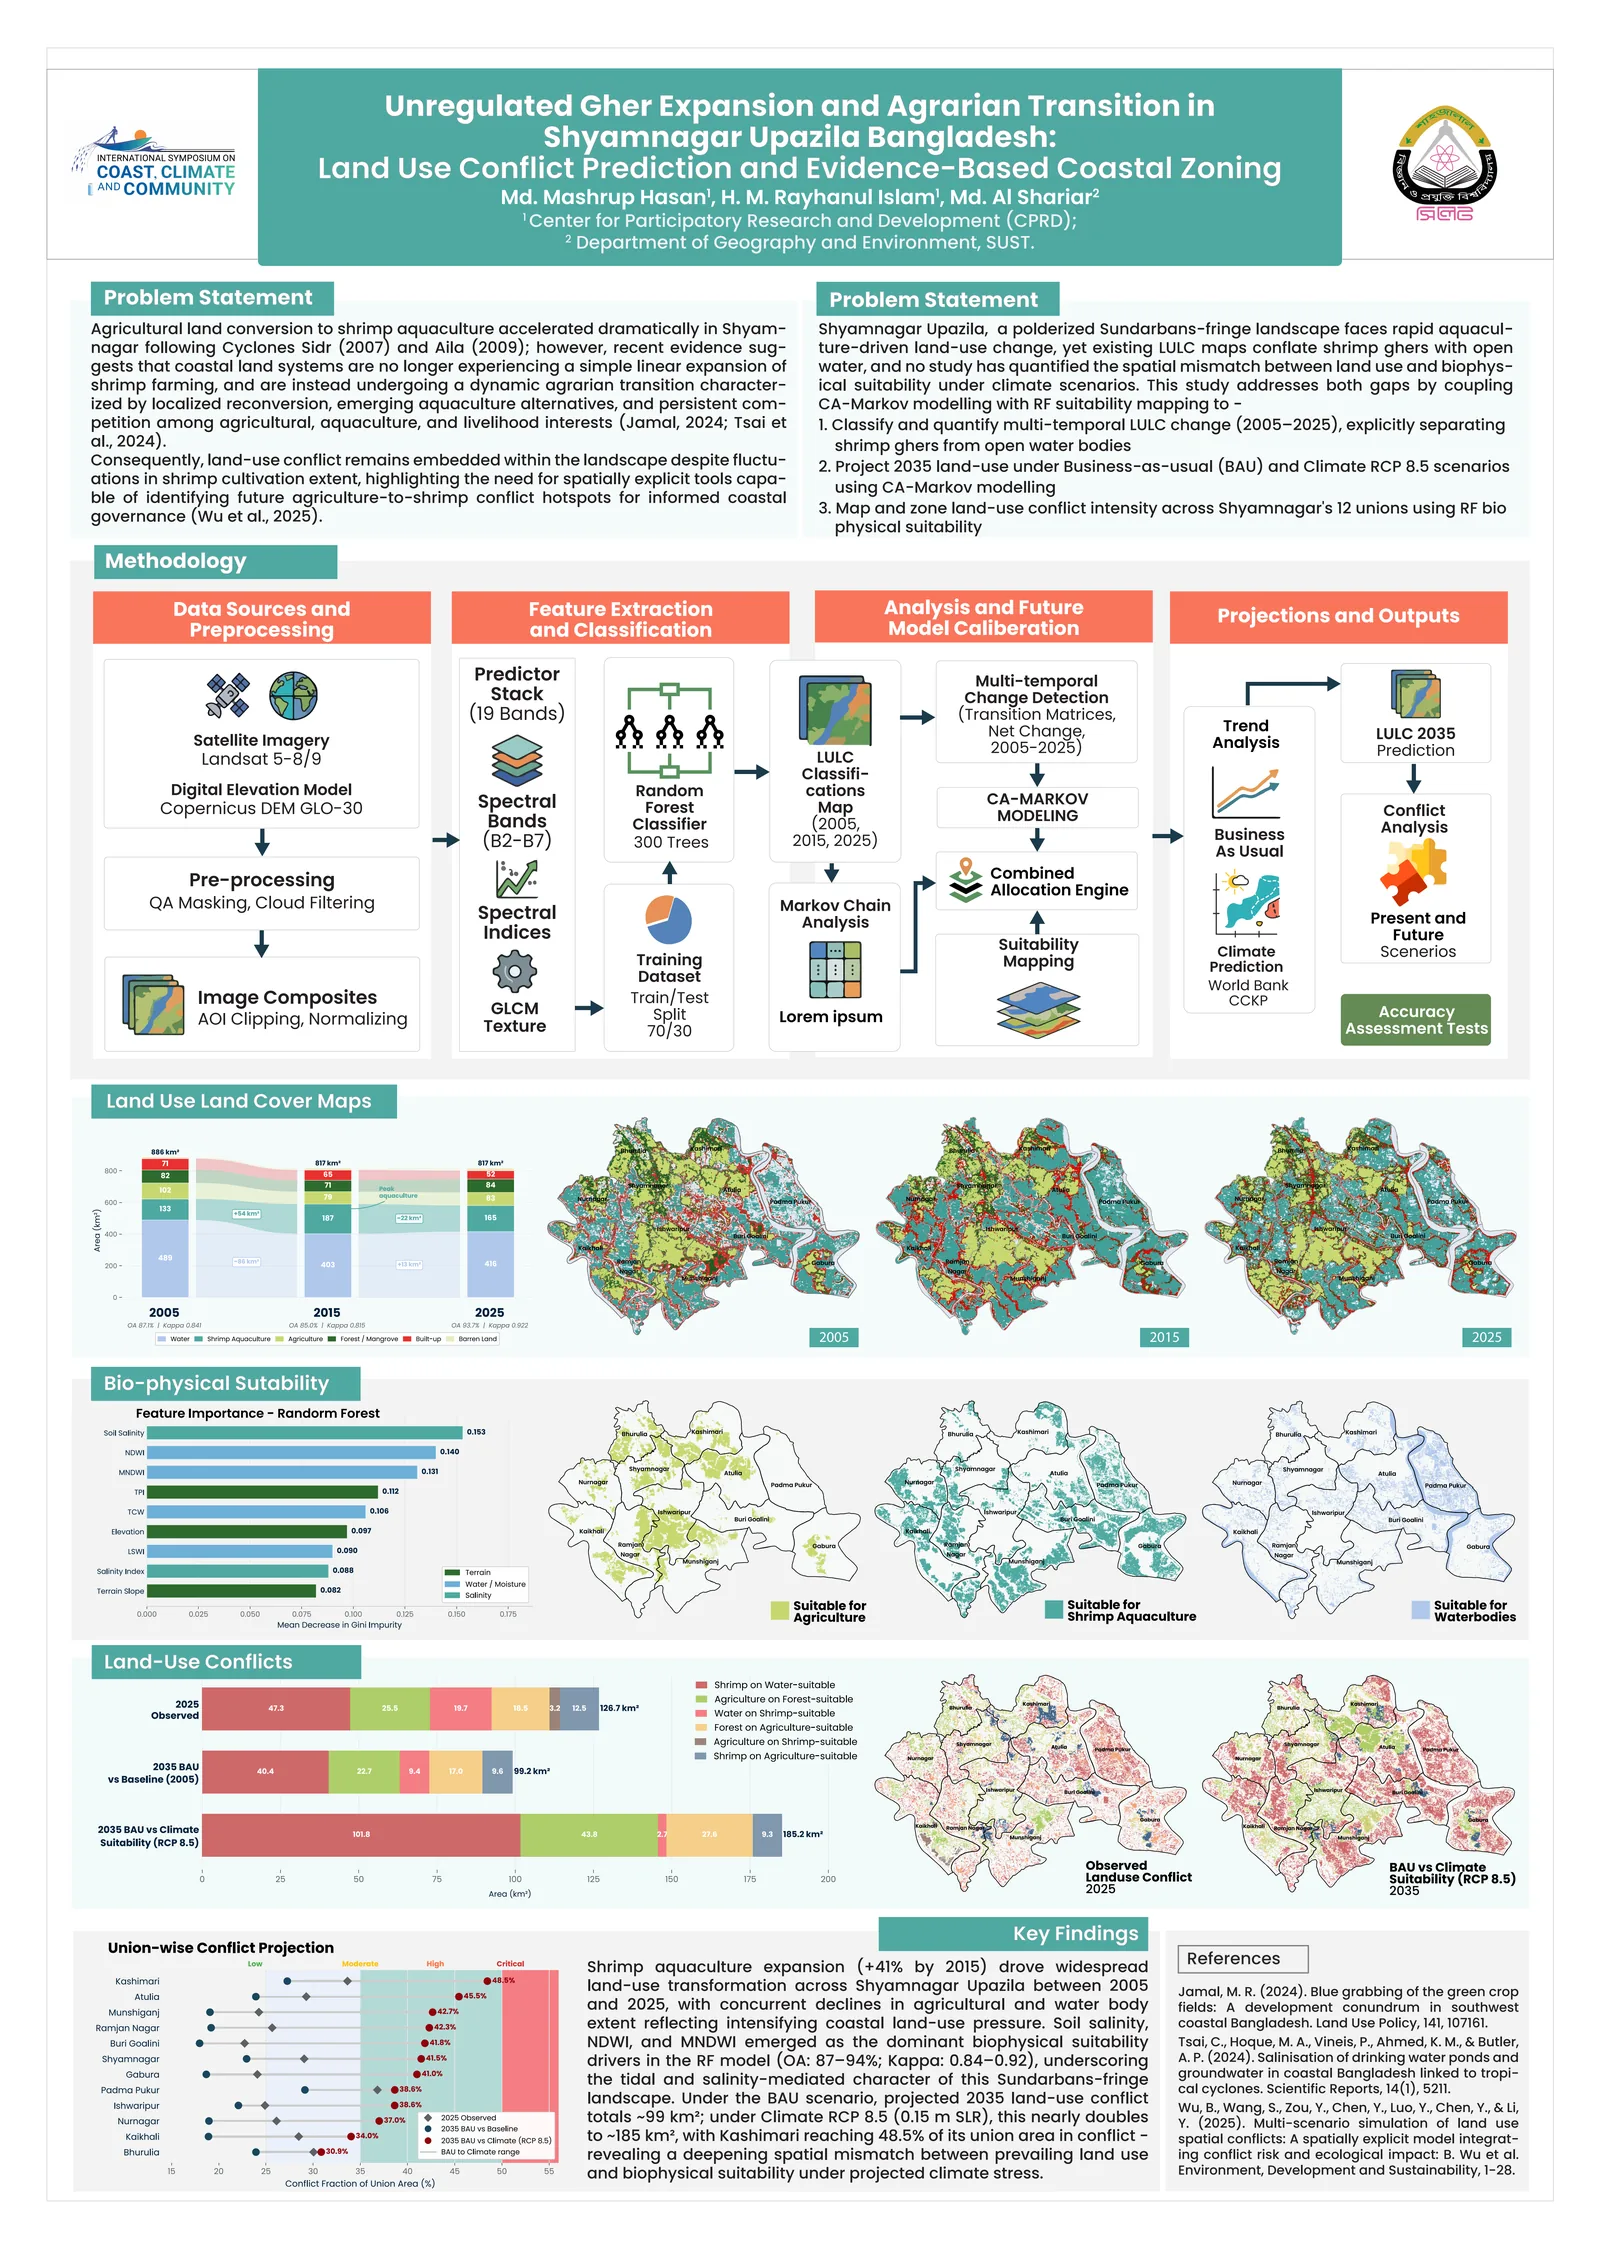
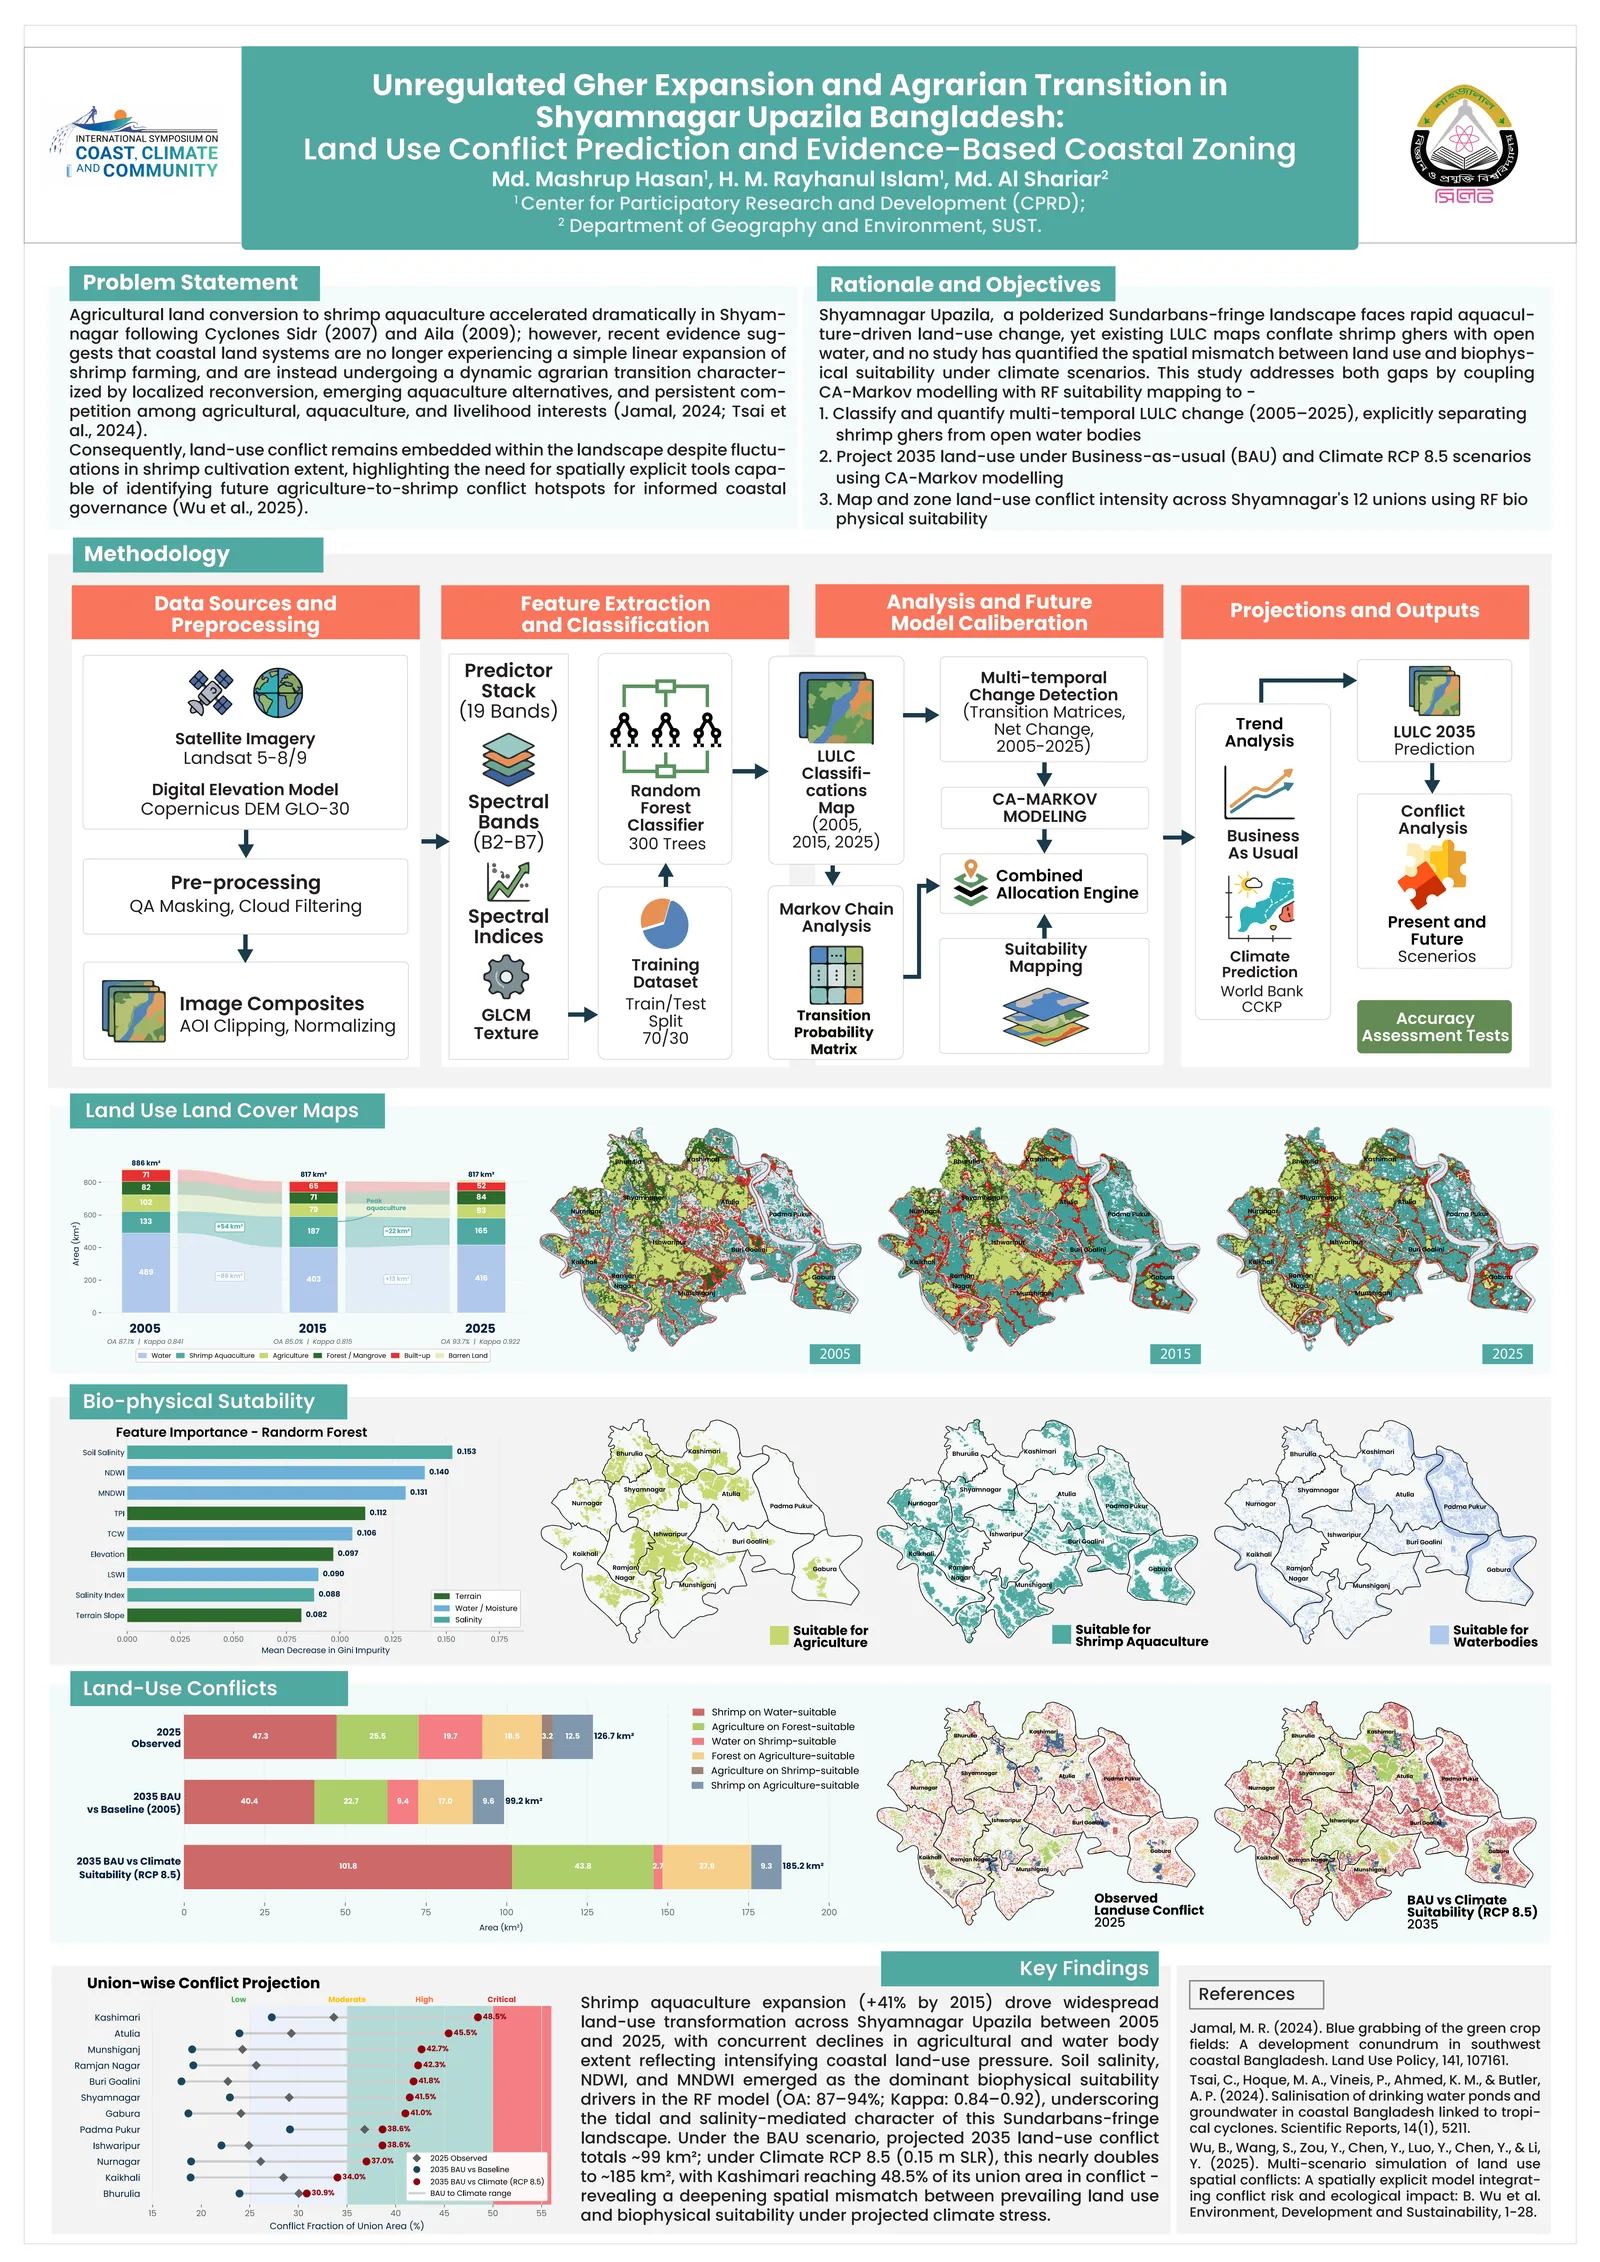
Update the ISCCC poster to the latest final version
Re-renders and re-crops the poster from the newer PDF (Rationale &
Objectives box replaces the duplicated Problem Statement header, and
the Methodology panel's placeholder "Lorem ipsum" node is now the real
Transition Probability Matrix step), and recalibrates the section
hotspot boundaries and aspect ratios to match the revised layout.

Changed region(s): [[0.0312, 0.4059, 0.9688, 0.9991], [0.0312, 0.0, 0.9688, 0.4683], [0.25, 0.6869, 0.3125, 0.7181]]

diff --git a/index.html b/index.html
@@ -842,13 +842,13 @@
     <div class="poster-stage">
       <div class="poster-overview" id="posterOverview">
         <img src="assets/research/ocg-symposium-poster.webp" alt="Full OCG Symposium poster: Unregulated Gher Expansion and Agrarian Transition in Shyamnagar Upazila">
-        <button class="poster-seg" data-seg="header" style="top:0%;height:12.2%"><span>Title &amp; Authors</span></button>
-        <button class="poster-seg" data-seg="problem" style="top:12.2%;height:12.11%"><span>Problem Statement &amp; Objectives</span></button>
-        <button class="poster-seg" data-seg="methodology" style="top:24.31%;height:24.07%"><span>Methodology</span></button>
-        <button class="poster-seg" data-seg="lulc" style="top:48.38%;height:12.59%"><span>Land Use / Land Cover Maps</span></button>
-        <button class="poster-seg" data-seg="biophysical" style="top:60.97%;height:12.41%"><span>Bio-physical Suitability</span></button>
-        <button class="poster-seg" data-seg="conflicts" style="top:73.38%;height:11.95%"><span>Land-Use Conflicts</span></button>
-        <button class="poster-seg" data-seg="findings" style="top:85.33%;height:14.67%"><span>Key Findings &amp; References</span></button>
+        <button class="poster-seg" data-seg="header" style="top:0%;height:11.76%"><span>Title &amp; Authors</span></button>
+        <button class="poster-seg" data-seg="problem" style="top:11.76%;height:12.01%"><span>Problem Statement &amp; Objectives</span></button>
+        <button class="poster-seg" data-seg="methodology" style="top:23.77%;height:24.58%"><span>Methodology</span></button>
+        <button class="poster-seg" data-seg="lulc" style="top:48.35%;height:12.86%"><span>Land Use / Land Cover Maps</span></button>
+        <button class="poster-seg" data-seg="biophysical" style="top:61.21%;height:12.67%"><span>Bio-physical Suitability</span></button>
+        <button class="poster-seg" data-seg="conflicts" style="top:73.88%;height:12.17%"><span>Land-Use Conflicts</span></button>
+        <button class="poster-seg" data-seg="findings" style="top:86.05%;height:13.95%"><span>Key Findings &amp; References</span></button>
       </div>
       <div class="poster-zoom" id="posterZoom" hidden>
         <button class="poster-back" data-poster-back>&larr; All Sections</button>
@@ -1077,13 +1077,13 @@
   const modal=document.getElementById('posterModal');
   if(!modal) return;
   const SEGMENTS=[
-    {key:'header',label:'Title & Authors',src:'assets/research/poster-seg-header.webp',ratio:0.1708},
-    {key:'problem',label:'Problem Statement & Objectives',src:'assets/research/poster-seg-problem.webp',ratio:0.1698},
-    {key:'methodology',label:'Methodology',src:'assets/research/poster-seg-methodology.webp',ratio:0.3373},
-    {key:'lulc',label:'Land Use / Land Cover Maps',src:'assets/research/poster-seg-lulc.webp',ratio:0.1765},
-    {key:'biophysical',label:'Bio-physical Suitability',src:'assets/research/poster-seg-biophysical.webp',ratio:0.1741},
-    {key:'conflicts',label:'Land-Use Conflicts',src:'assets/research/poster-seg-conflicts.webp',ratio:0.1673},
-    {key:'findings',label:'Key Findings & References',src:'assets/research/poster-seg-findings.webp',ratio:0.2058}
+    {key:'header',label:'Title & Authors',src:'assets/research/poster-seg-header.webp',ratio:0.1661},
+    {key:'problem',label:'Problem Statement & Objectives',src:'assets/research/poster-seg-problem.webp',ratio:0.1699},
+    {key:'methodology',label:'Methodology',src:'assets/research/poster-seg-methodology.webp',ratio:0.3475},
+    {key:'lulc',label:'Land Use / Land Cover Maps',src:'assets/research/poster-seg-lulc.webp',ratio:0.1818},
+    {key:'biophysical',label:'Bio-physical Suitability',src:'assets/research/poster-seg-biophysical.webp',ratio:0.1791},
+    {key:'conflicts',label:'Land-Use Conflicts',src:'assets/research/poster-seg-conflicts.webp',ratio:0.172},
+    {key:'findings',label:'Key Findings & References',src:'assets/research/poster-seg-findings.webp',ratio:0.1974}
   ];
   const overview=document.getElementById('posterOverview');
   const zoom=document.getElementById('posterZoom');
